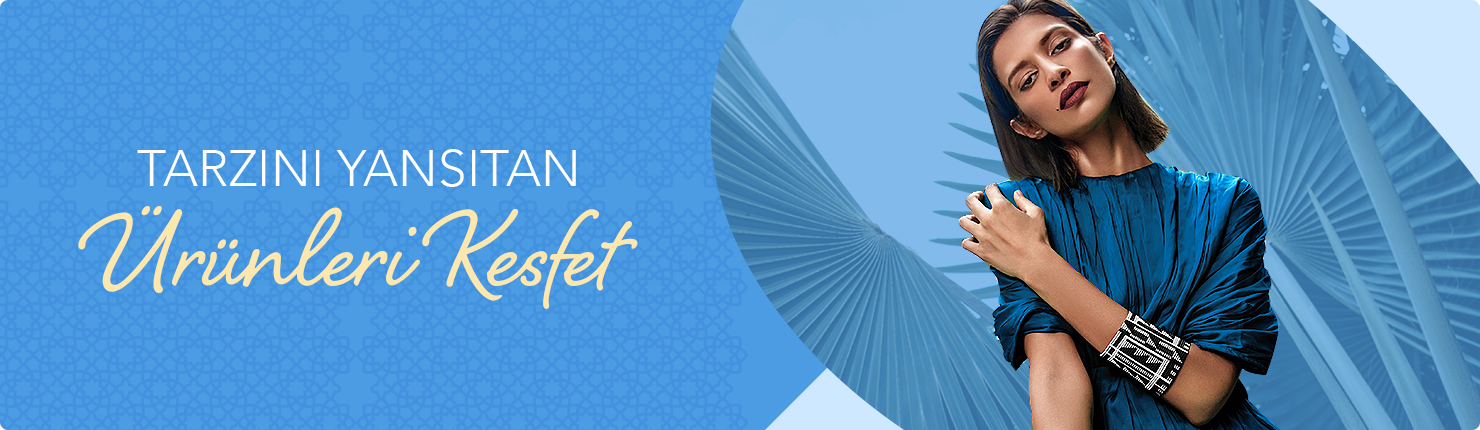
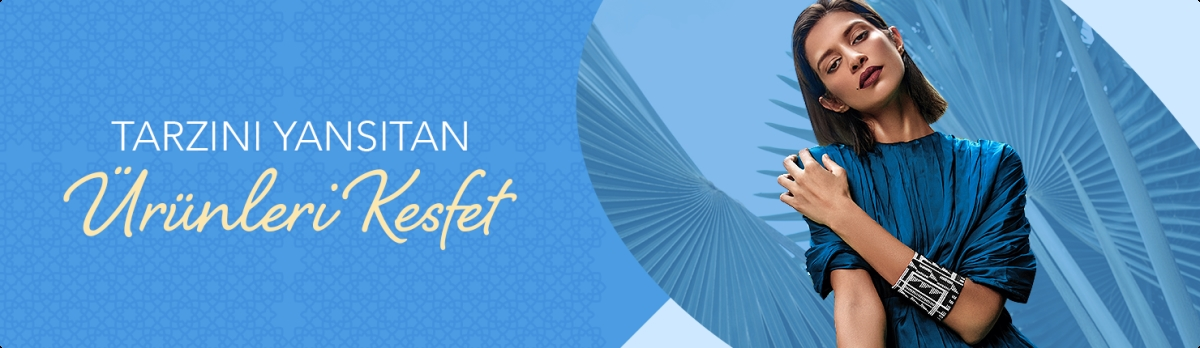
Some images optimized

diff --git a/src/hooks/useForgetPassword.js b/src/hooks/useForgetPassword.js
@@ -14,7 +14,6 @@ const useForgetPassword = (forgetPasswordValidate) => {
     e.preventDefault();
     setError(forgetPasswordValidate(input));
     if (input?.email && error === '') {
-      console.log('email :>> ', error);
       toast.success('Şifreniz belirttiğiniz e-posta adresine gönderildi', {
         position: 'top-right',
         autoClose: 3000,
@@ -30,7 +29,6 @@ const useForgetPassword = (forgetPasswordValidate) => {
   };
   useEffect(() => {
     if (error?.email === true) {
-      console.log('error :>> ', error);
       toast.error('Lütfen e-postanızı giriniz', {
         position: 'top-right',
         autoClose: 3000,

diff --git a/src/components/Products/Products.js b/src/components/Products/Products.js
@@ -24,6 +24,7 @@ function Products() {
     );
     setSelectedProducts(filtered);
   }, [currentQuery, products.products]);
+
   return (
     <div className="products">
       {selectedProducts.length > 0
@@ -32,7 +33,7 @@ function Products() {
               <Card product={product} />
             </Link>
           ))
-        : products.products.map((product) => (
+        : products.products.slice(0, 20).map((product) => (
             <Link key={product.id} to={`urun-detay/${product.id}`}>
               <Card product={product} />
             </Link>

diff --git a/src/pages/SignIn/SignIn.js b/src/pages/SignIn/SignIn.js
@@ -6,7 +6,7 @@ import React, { useEffect } from 'react';
 import { useSelector } from 'react-redux';
 import { Link, useHistory } from 'react-router-dom';
 
-import image from '../../assets/images/login.png';
+import image from '../../assets/images/login1.png';
 import logo from '../../assets/logo/logo.svg';
 import { authValidate } from '../../helpers';
 import useAuth from '../../hooks/useAuth';

diff --git a/src/pages/SignUp/SignUp.js b/src/pages/SignUp/SignUp.js
@@ -5,7 +5,7 @@ import React, { useEffect } from 'react';
 import { useSelector } from 'react-redux';
 import { Link, useHistory } from 'react-router-dom';
 
-import image from '../../assets/images/login.png';
+import image from '../../assets/images/login1.png';
 import logo from '../../assets/logo/logo.svg';
 import { authValidate } from '../../helpers';
 import useAuth from '../../hooks/useAuth';

diff --git a/src/pages/ForgetPassword/ForgetPassword.js b/src/pages/ForgetPassword/ForgetPassword.js
@@ -5,7 +5,7 @@ import useForgetPassword from 'hooks/useForgetPassword';
 import React from 'react';
 import { Link } from 'react-router-dom';
 
-import image from '../../assets/images/login.png';
+import image from '../../assets/images/login1.png';
 import logo from '../../assets/logo/logo.svg';
 
 function ForgetPassword() {

diff --git a/src/components/UploadImage/UploadImage.js b/src/components/UploadImage/UploadImage.js
@@ -19,7 +19,6 @@ function UploadImage({ errors }) {
     maxFiles: 1,
     multiple: false,
   });
-  console.log('getInputProps :>> ', getInputProps);
   return (
     <div className="uploadImage">
       <div {...getRootProps()}>

diff --git a/src/pages/account/Account.js b/src/pages/account/Account.js
@@ -42,6 +42,7 @@ function Account() {
   return (
     <div className="account">
       <Header />
+
       <div className="account__email">
         <img src={avatar} alt="avatar" />
         <p>{userInfo}</p>

diff --git a/src/components/Products/products.scss b/src/components/Products/products.scss
@@ -9,6 +9,8 @@
     margin-bottom: 50px;
 }
 
+
+
 @media screen and (max-width: 600px) {
     .products {
         grid-template-columns: repeat(auto-fill, minmax(120px, 1fr)) !important;

diff --git a/src/pages/home/Home.js b/src/pages/home/Home.js
@@ -12,6 +12,7 @@ function Home() {
   return (
     <div className="home">
       <Header />
+
       <img className="banner" src={banner} alt="" />
       <Navbar />
       <Products />

diff --git a/src/app.scss b/src/app.scss
@@ -38,3 +38,5 @@
     --toastify-color-progress-success: var(--toastify-color-success);
     --toastify-color-progress-error: var(--toastify-color-error);
 }
+
+

diff --git a/src/pages/account/account.scss b/src/pages/account/account.scss
@@ -207,6 +207,7 @@
     color: #B1B1B1 !important;
 }
 
+
 @media screen and (max-width: 650px) {
 
     .account__email {
